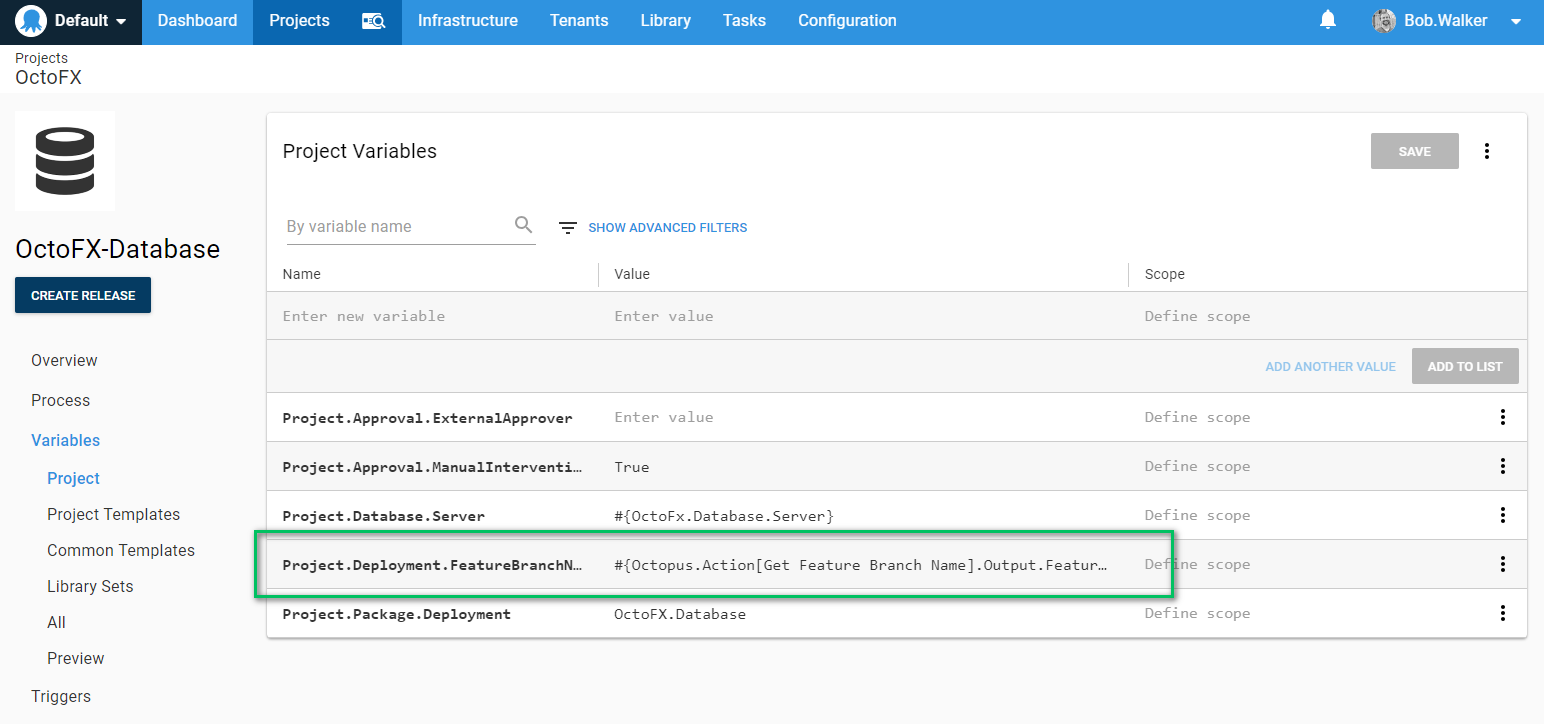
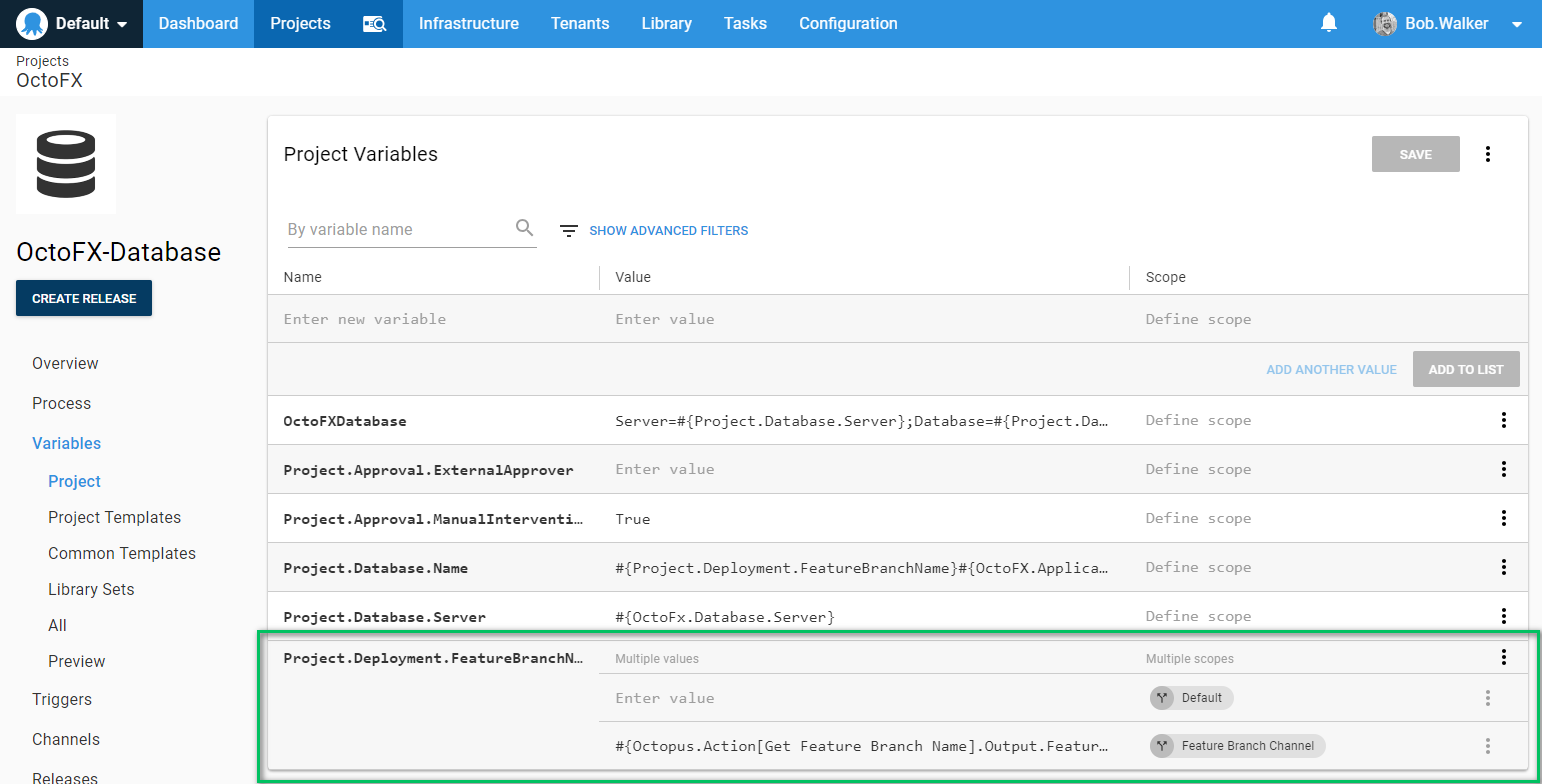
Replacing some images for feature branch deployments

diff --git a/manuscript/FeatureBranchDeployments.md b/manuscript/FeatureBranchDeployments.md
@@ -103,7 +103,7 @@ Add that step template to your process and configure it to only run for the feat
 
 That step will set a output variable, `FeatureBranchName`.  The syntax to get that variable is: `Octopus.Action[Get Feature Branch Name].Output.FeatureBranchName`.  That is a bit much to remember.  And if the step name were to ever change you would have to go back through all the steps and change that name.  
 
-We recommend creating a variable to store that output variable.  
+We recommend creating a variable to store that output variable.  Scope that output variable to the feature branch deployment channel.  Scope an empty variable to the default channel.
 
 ![](images/featurebranches-outputvariableasvariable.png)
 
